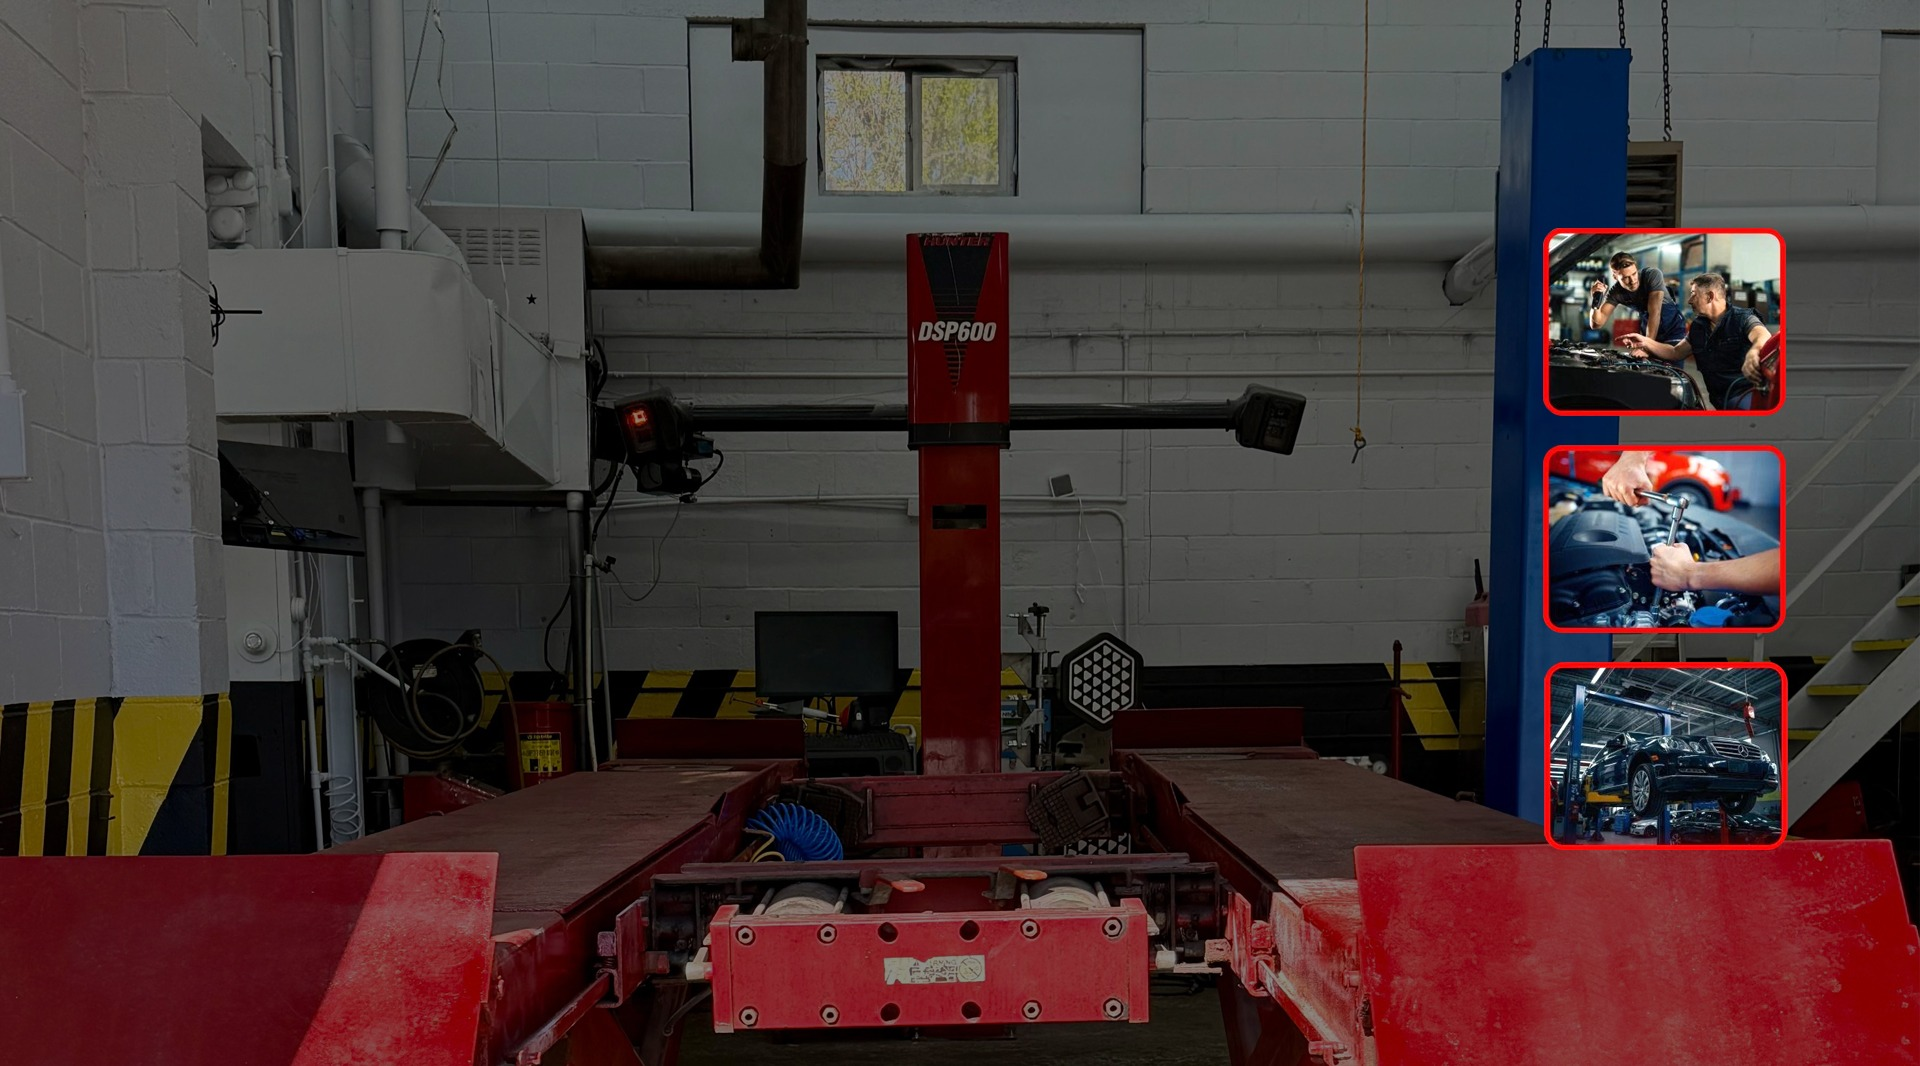
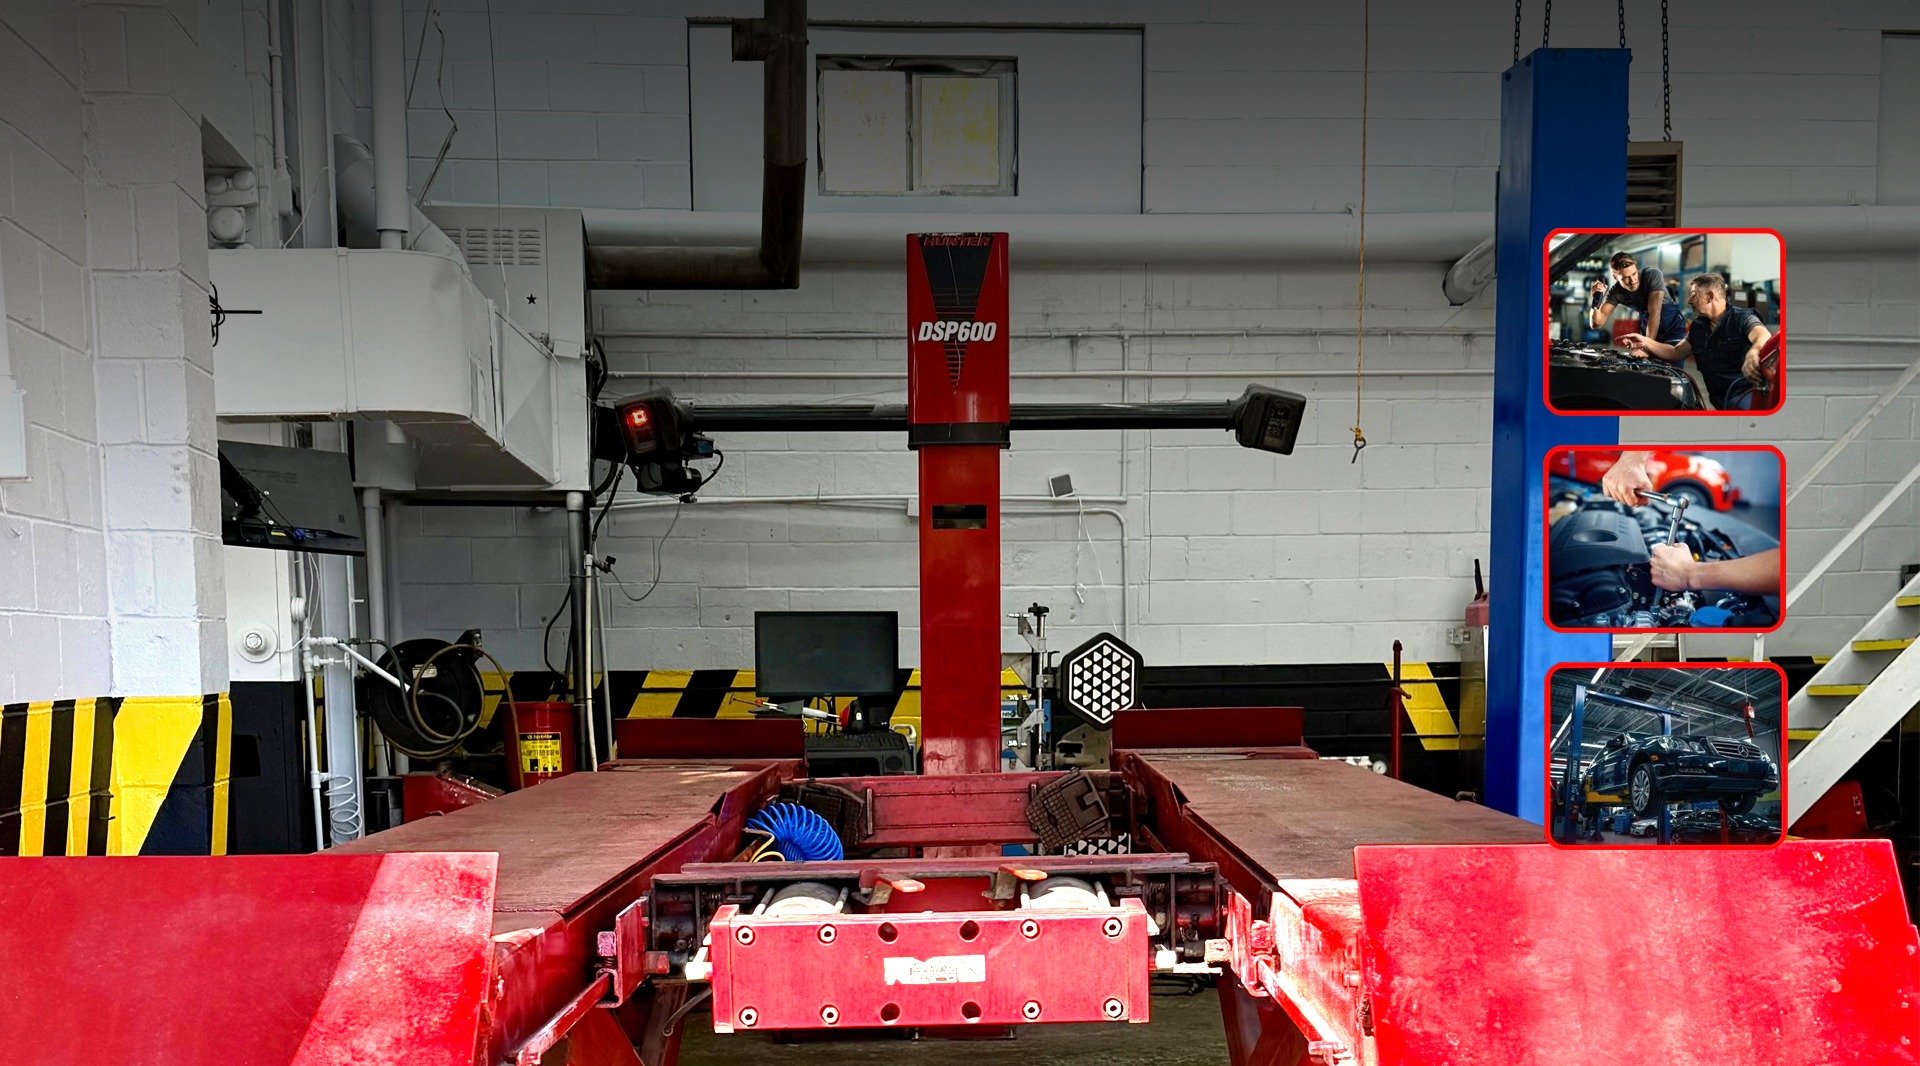
fix

diff --git a/resources/views/pages/home.blade.php b/resources/views/pages/home.blade.php
@@ -24,10 +24,10 @@
         <picture>
             <!-- Mobile image -->
             <source media="(max-width: 768px)" 
-                    srcset="{{ asset('assets/images/') }}">
+                    srcset="{{ asset('assets/images/mechanix-banner-mob-02.jpg') }}">
 
             <!-- Desktop image -->
-            <img src="{{ asset('assets/images/mechanix-banner-desktop-02 1.jpg') }}" 
+            <img src="{{ asset('assets/images/mechanix-banner-desktop-02.jpg') }}" 
                  alt="Hero Image">
         </picture>
     </div>